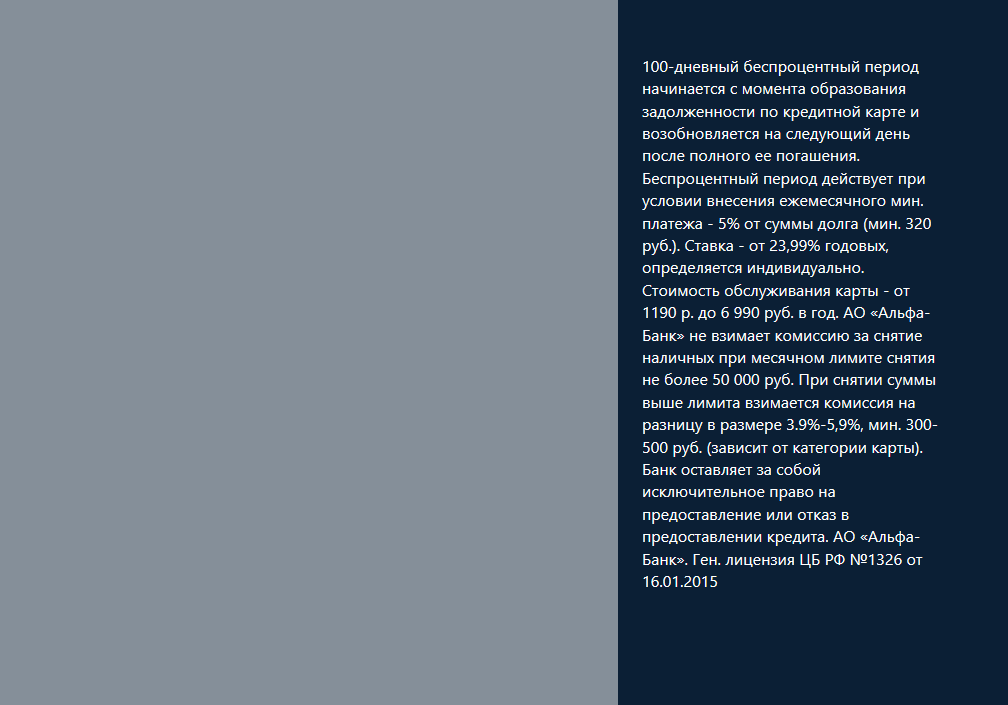
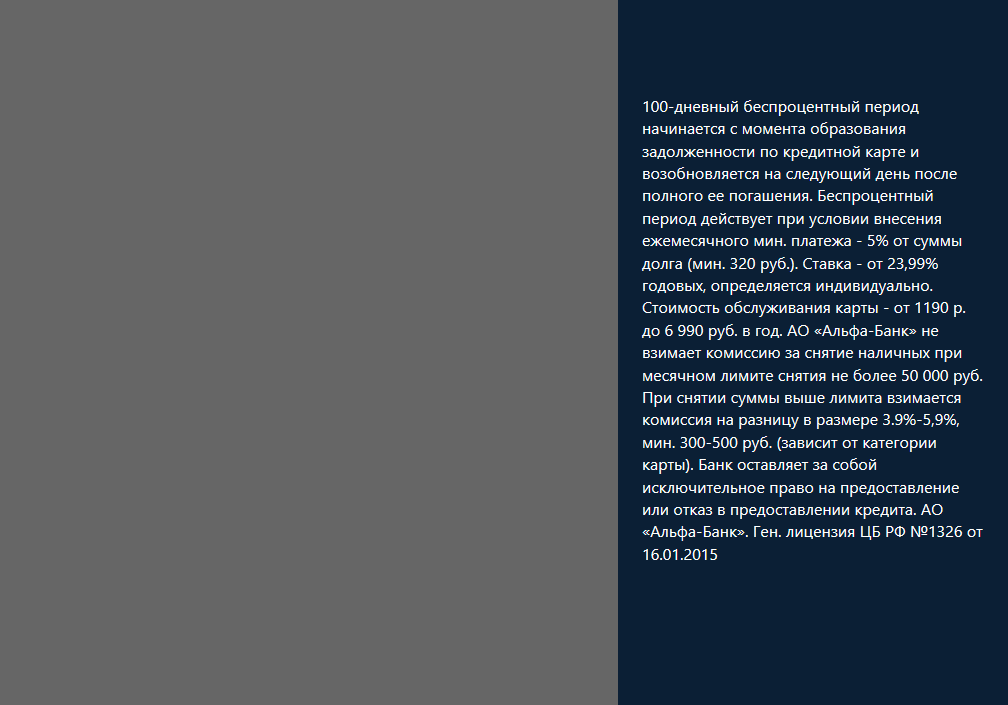
fix(sidebar): fix sidebar styles (#327)
* fix(sidebar): fix sidebar styles

* fix(sidebar): fix sidebar styles, fix hadow-overlay-color color

* fix(sidebar): fix sidebar styles, update gemini

diff --git a/src/vars/shadow.css b/src/vars/shadow.css
@@ -19,13 +19,13 @@
     --shadow: 0 6px 14px 0 color(var(--shadow-color) a(.15));
 
     /**
-     * Облегченная тень, используемая, чтобы добавить 3-е измерение интерфейсу и
-     * приподнять компонент над контентом. Используется, например, в попапах и нотификейшенах.
+     * Облегченная тень, используемая, чтобы добавить 3-е измерение интерфейсу
+     * и приподнять компонент над контентом. Используется, например, в попапах и нотификейшенах.
      */
     --shadow-light: 0 1px 5px 0 var(--shadow-light-color);
 
     /**
      * Тень для оверлея, Используется, например, в сайдбаре
      */
-    --shadow-overlay-color: color(var(--shadow-color) a(.5));
+    --shadow-overlay-color: color(rgb(0, 0, 0) a(var(--opacity-minor)));
 }

diff --git a/src/sidebar/sidebar.css b/src/sidebar/sidebar.css
@@ -43,7 +43,8 @@ body.sidebar-overlay {
 
     &__header {
         display: flex;
-        margin-bottom: 30px;
+        min-height: 20px;
+        margin-bottom: 50px;
     }
 
     &__header-content {
@@ -75,7 +76,7 @@ body.sidebar-overlay {
     }
 
     &__closer {
-        margin-left: -8px;
+        margin: -14px 0 0 -10px;
     }
 
     &__inner {
@@ -83,8 +84,7 @@ body.sidebar-overlay {
         flex-direction: column;
         height: 100%;
 
-        padding: var(--sidebar-padding) 0 0 var(--sidebar-padding);
-        padding-right: calc(var(--sidebar-padding) + var(--sidebar-shift));
+        padding: var(--sidebar-padding) var(--sidebar-padding) 0;
 
         overflow-y: auto;
         overflow-x: hidden;
@@ -123,6 +123,10 @@ body.sidebar-overlay {
             width: 100%;
             height: var(--sidebar-header-height);
             padding: 15px var(--sidebar-padding-small);
+        }
+
+        &__closer {
+            margin: 0 0 0 -5px;
         }
 
         &__header-content {

diff --git a/src/sidebar/sidebar.jsx b/src/sidebar/sidebar.jsx
@@ -138,10 +138,10 @@ class Sidebar extends React.Component {
                             hasCloser &&
                             <div className={ cn('closer') }>
                                 <IconButton
-                                    size={ 'm' }
+                                    size={ this.state.isMobile ? 'm' : 'l' }
                                     onClick={ this.handleClose }
                                 >
-                                    <Icon size={ 'm' } name='tool-close' />
+                                    <Icon size={ this.state.isMobile ? 'm' : 'l' } name='tool-close' />
                                 </IconButton>
                             </div>
                         }
